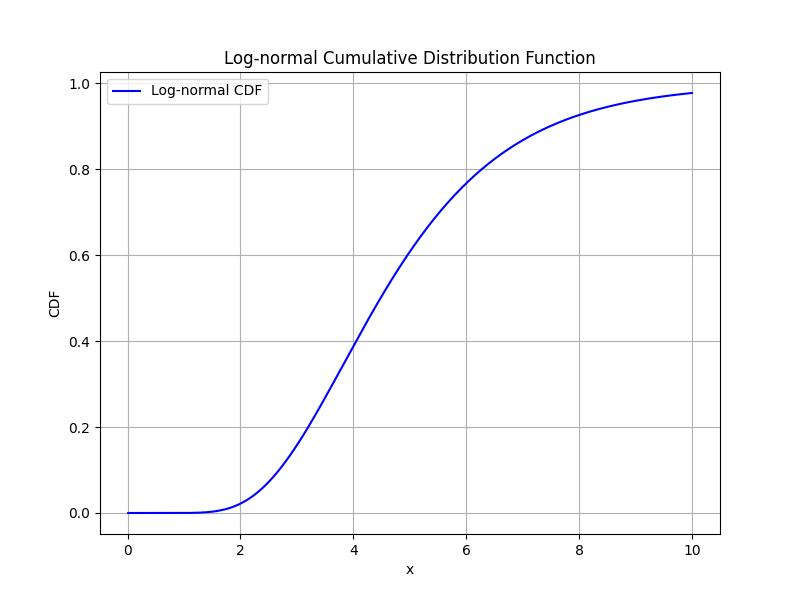
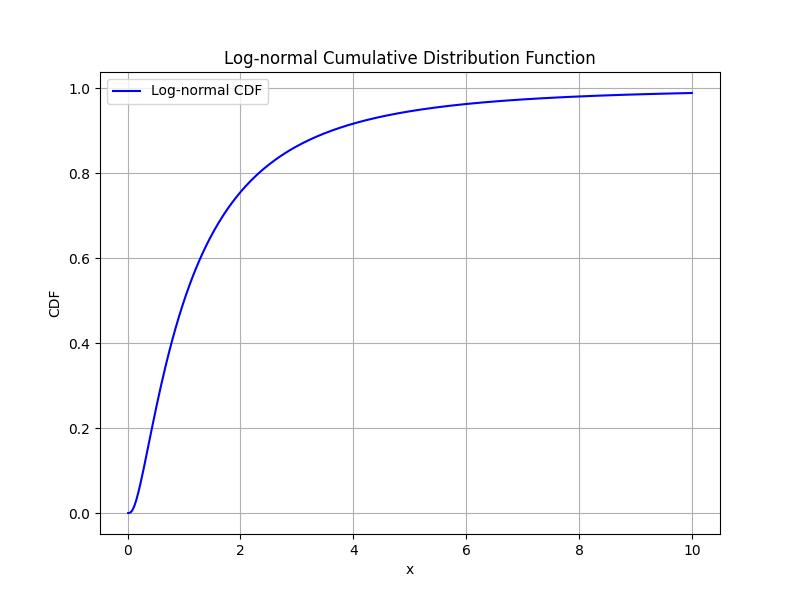
s

diff --git a/20250408/hw1.py b/20250408/hw1.py
@@ -3,8 +3,8 @@ import matplotlib.pyplot as plt
 from scipy.stats import lognorm
 
 # 定義參數
-mu = 1.5  # μ
-sigma = 0.4  # σ
+mu = 0  # μ
+sigma = 1.0  # σ
 
 # 計算對數常態分布的 s 和 scale
 s = sigma
